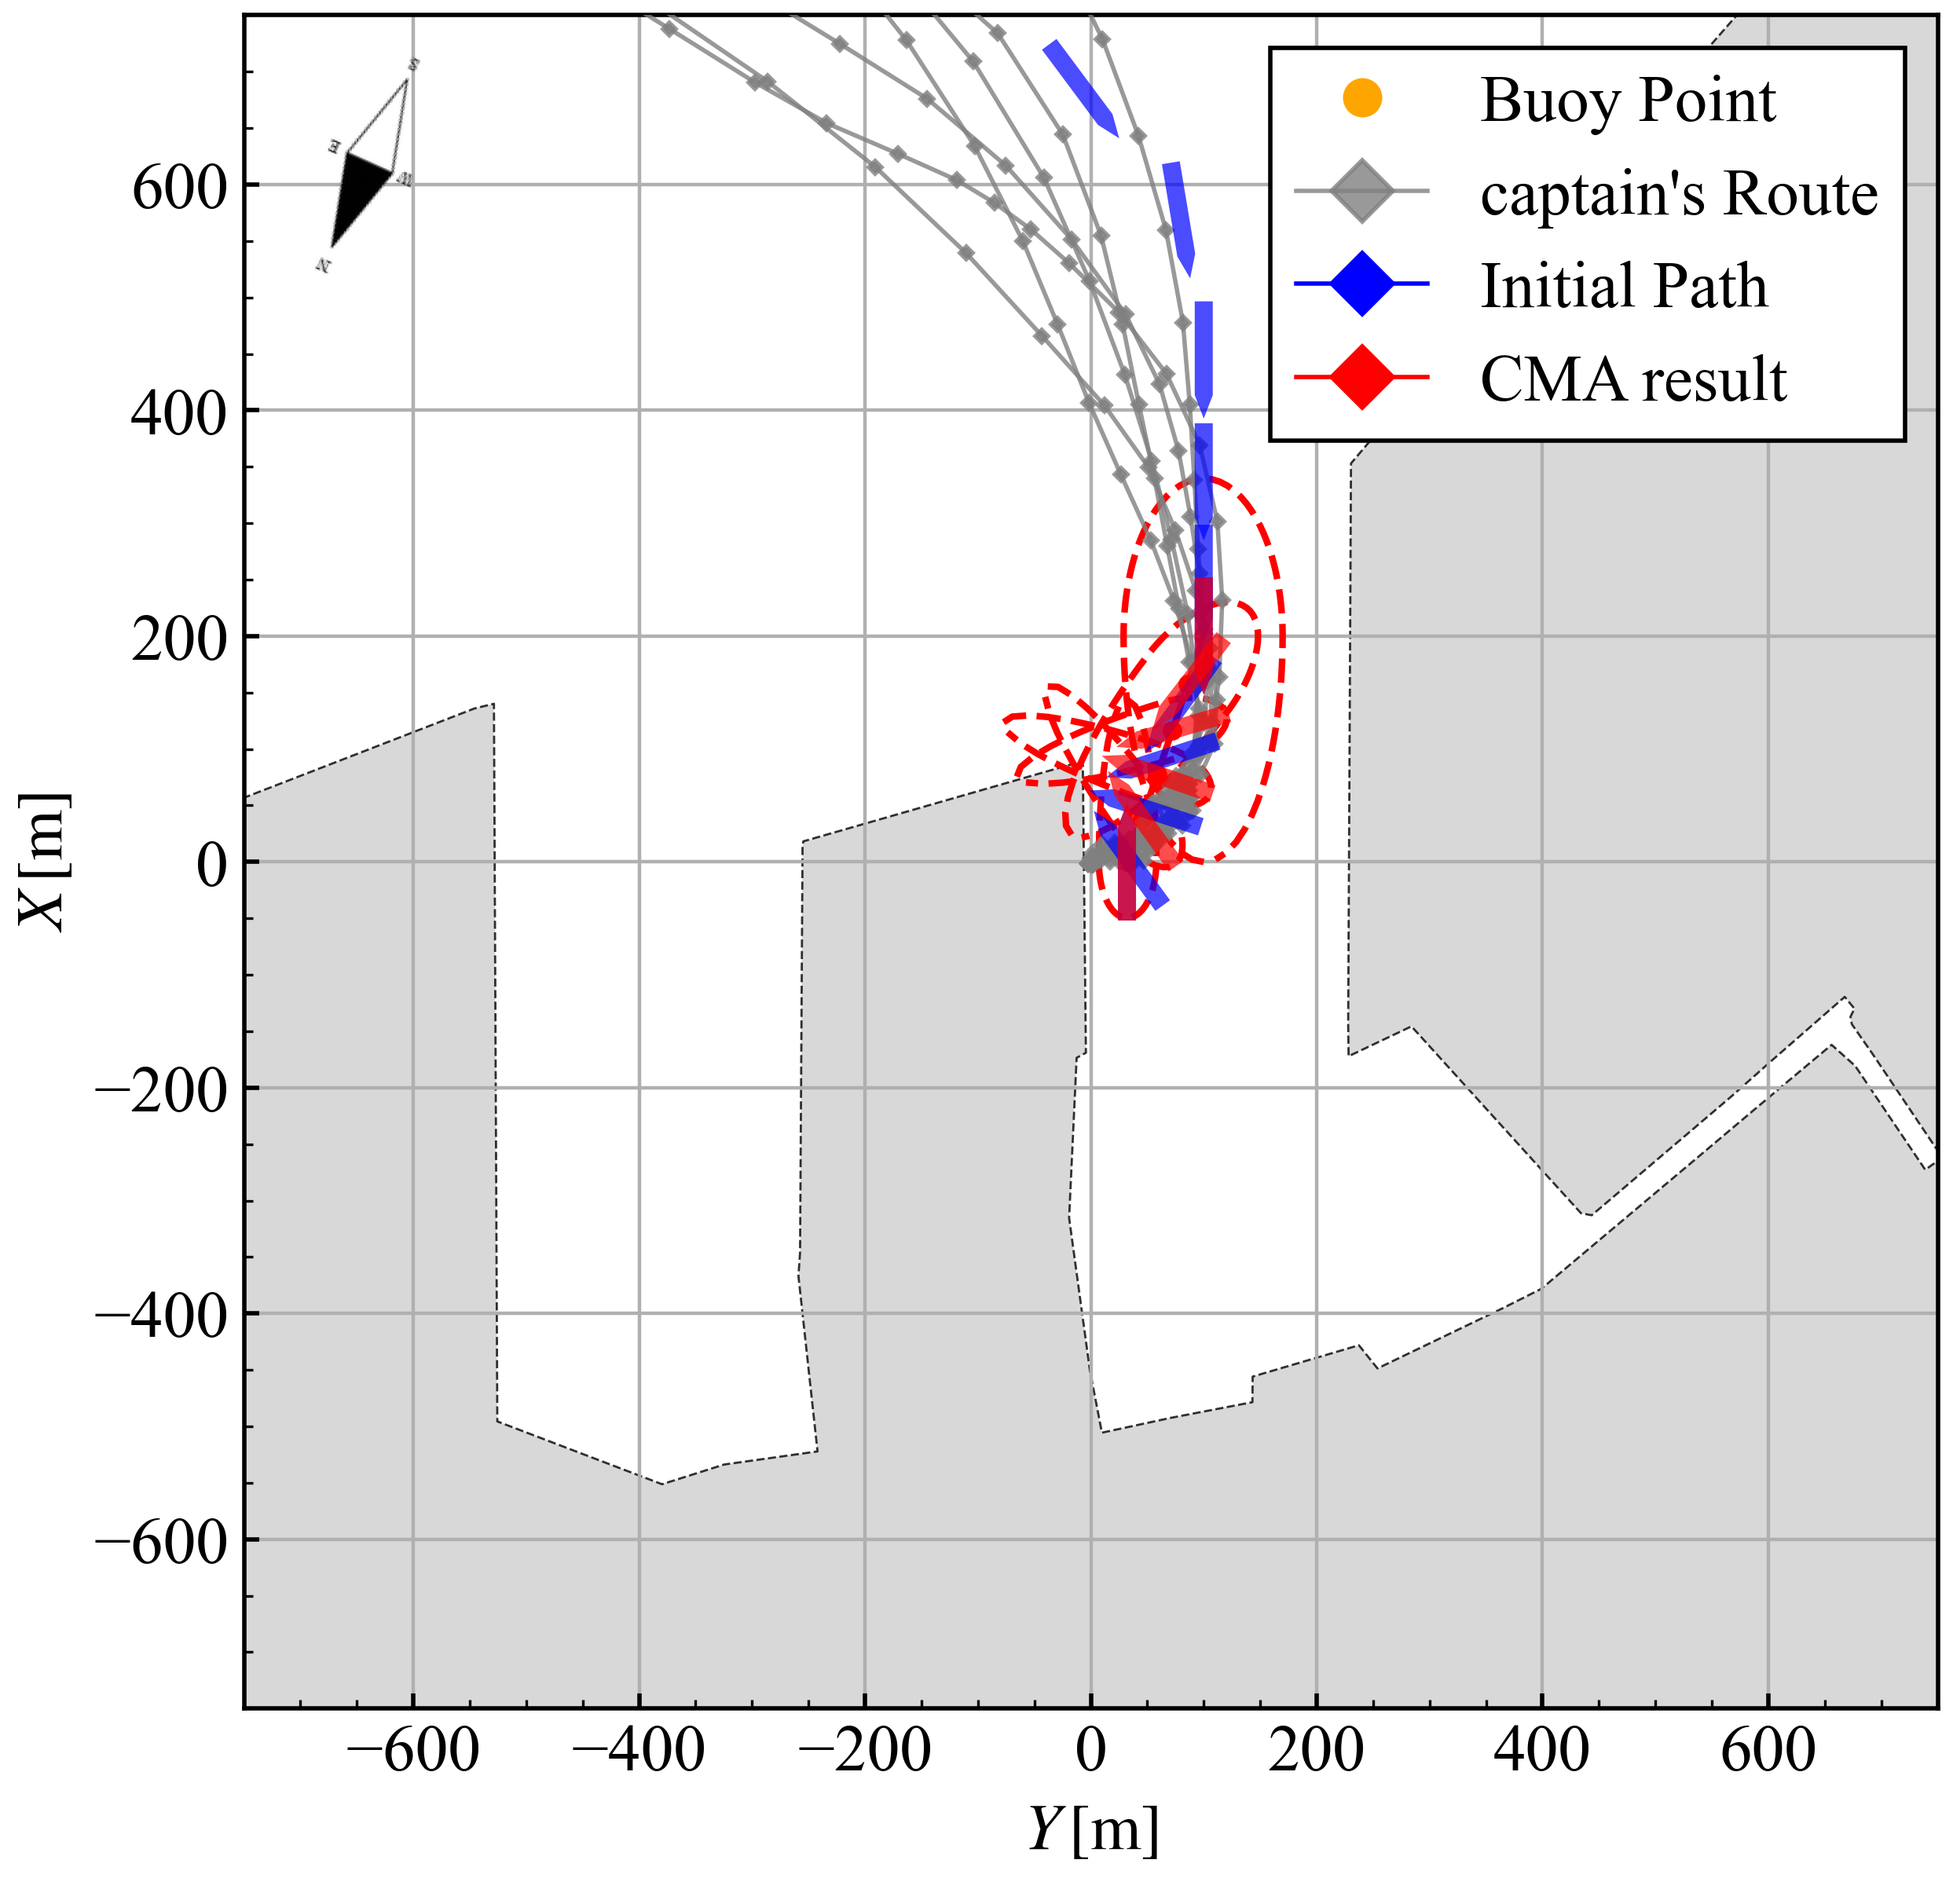
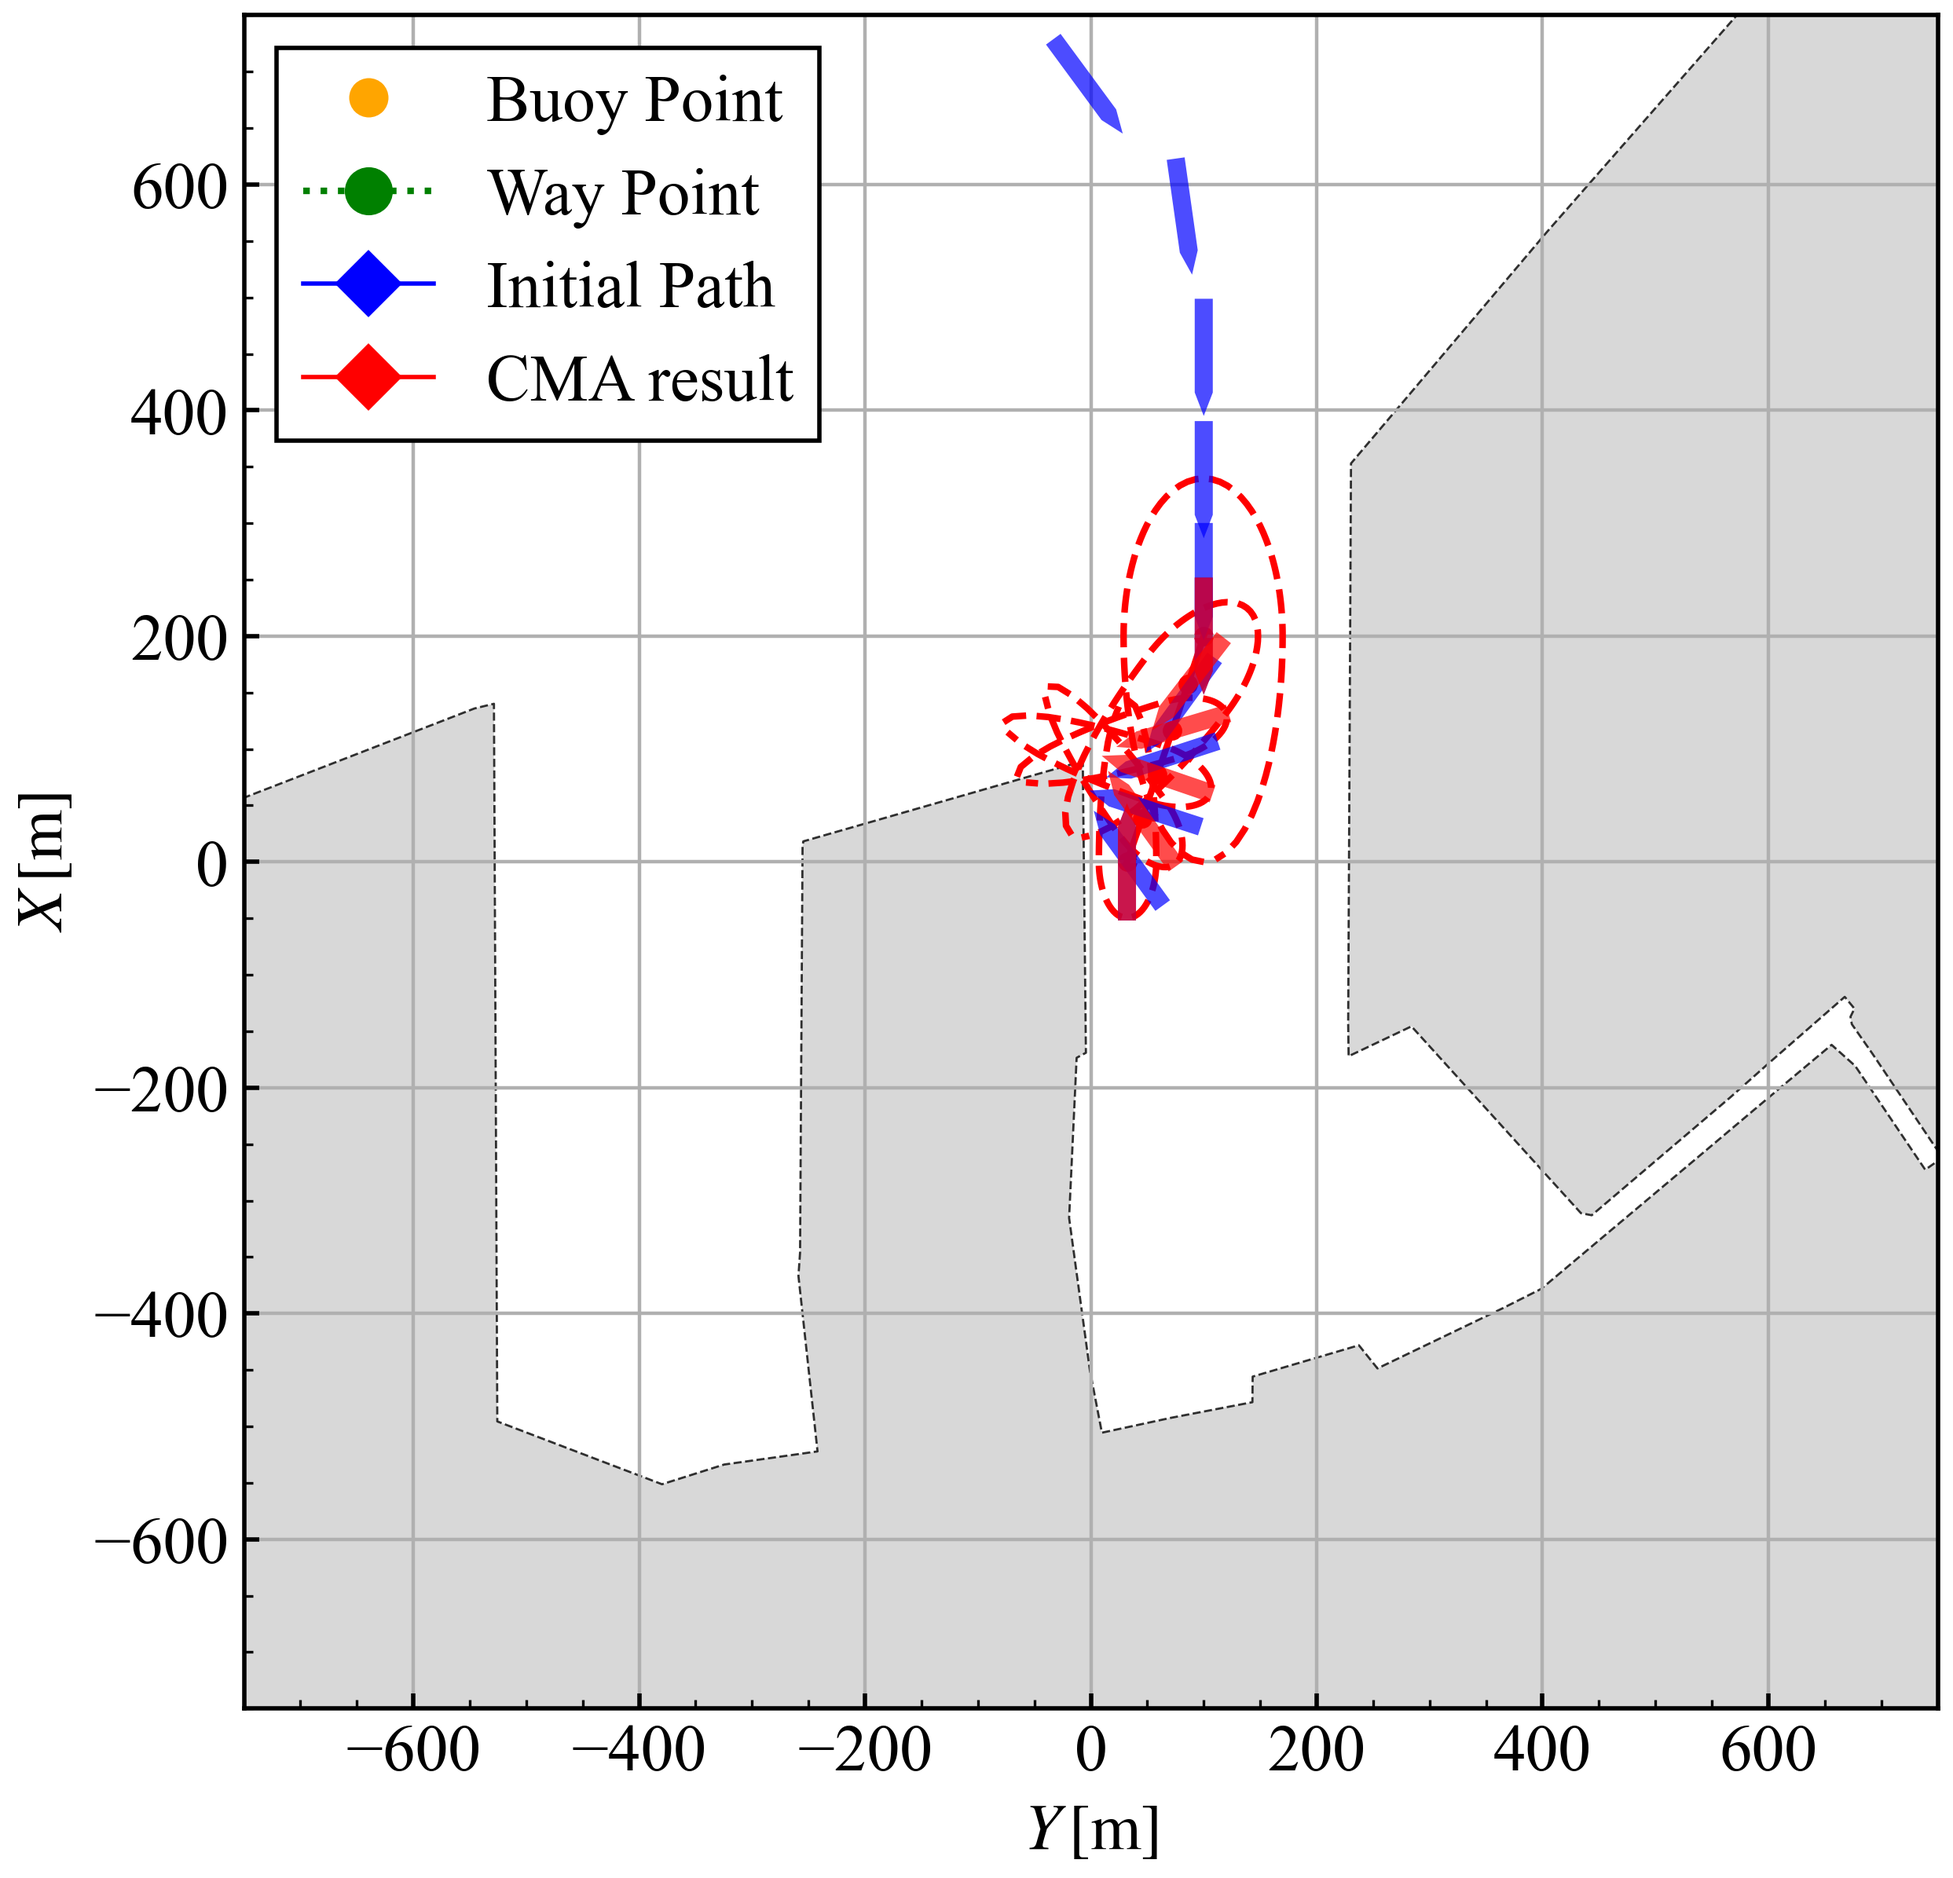
画像追加

Changed region(s): [[0.1239, 0.0, 0.6504, 0.4642], [0.6504, 0.0, 0.9912, 0.2476], [0.6814, 0.0309, 0.7124, 0.0619]]

diff --git a/program/path_planning/CMA-ES3.py b/program/path_planning/CMA-ES3.py
@@ -600,18 +600,6 @@ class MakeLine:
                                     markerfacecolor="orange", markersize=2, label="Buoy Point")
         legends.append(legend_buoy)
 
-        # captain's route
-        for df in self.df_cap:
-            traj = RealTraj()
-            traj.input_csv(df, self.port_csv)
-            ax.plot(traj.Y, traj.X, 
-                        color = 'gray', ls = '-', marker = 'D',
-                        markersize = 2, alpha = 0.8, lw = 1.0, zorder = 3)
-        legend_captain = plt.Line2D([0], [0],
-                                    color = 'gray', ls = '-', marker = 'D',
-                                    markersize = 2, alpha = 0.8, lw = 1.0, label="captain's Route")
-        legends.append(legend_captain)
-
         # compas
         img = mpimg.imread("raw_datas/compass icon2.png")
         df = pd.read_csv(self.port_csv)
@@ -645,7 +633,9 @@ class MakeLine:
 
     def make_init_line(self):
         port = self.port
+        ax = self.ax
         lines = []
+        h_list = []
 
         # for crossing algorithm
         coords_map = self.df_map[["y [m]", "x [m]"]].to_numpy(dtype=float)
@@ -668,9 +658,11 @@ class MakeLine:
         L_berth.swap()
         lines.append(L_berth)
         self.lines = lines
+        self.turn_end = np.array((0.0, margin))
 
         ## save fig
-        self.show_init_lines("init lines step.1")
+        self.add_text(ax, h_list, p_te=True)
+        self.show_init_lines(ax, "init lines step.1")
 
         # from shipping lane
         lane_polys = []
@@ -695,15 +687,21 @@ class MakeLine:
         lines[:] = lines[1:] + lines[:1]
 
         ## save fig
-        self.show_init_lines("init lines step.2")
+        self.show_init_lines(ax, "init lines step.2")
 
         # from start point
         L_start = Line(fixed_pt=port["start"], theta=np.deg2rad(port["psi_start"]))
         lines.insert(0, L_start)
+        self.aproach_start = port["start"]
 
         ## save fig
-        self.show_init_lines("init lines step.3")
+        self.add_text(ax, h_list, p_as=True)
+        self.show_init_lines(ax, "init lines step.3")
         print("\ninit lines saved\n")
+
+        for h in h_list:
+            h.remove()
+
 
     def make_captain_line(self):
         lines = self.lines
@@ -711,6 +709,7 @@ class MakeLine:
         # set parent
         for i in range(len(lines) - 2):
             lines[i+1].set_parent(lines[i])
+        self.show_captain_line("captain's line prepare")
 
         base_idx = len(lines) - 1
         while True:
@@ -754,7 +753,7 @@ class MakeLine:
                     print("too much line")
                     break
             
-        self.show_captain_line()
+        self.show_captain_line("captain's line before", last=True)
 
     def make_init_route(self):
         """
@@ -767,6 +766,7 @@ class MakeLine:
         """
         port = self.port
         pts = self.captain_pts
+        Lpp = self.ps.L
 
         def cal_total_len(pts):
             seg_len = np.linalg.norm(pts[1:] - pts[:-1], axis=1)
@@ -789,7 +789,7 @@ class MakeLine:
         i = np.searchsorted(s_cum, u_split, side="right") - 1
         i = int(np.clip(i, 0, len(seg_len) - 1))
         turn_start_pt = port["turn start"]
-        berth_start_pt = [turn_start_pt[0] + 300, turn_start_pt[1]]
+        berth_start_pt = [turn_start_pt[0] + 3 * Lpp, turn_start_pt[1]]
         pts_for_bezier = np.vstack([pts[1:i+1], berth_start_pt])
 
         bezier_pts, _ = Bezier.bezier(pts_for_bezier, 100)
@@ -845,10 +845,8 @@ class MakeLine:
         self.turn_list = init_list[(len(init_list) - n):]
         self.target_list = self.turn_list[1:-1]
 
-        self.aproach_start = aproach_pts[0]
         self.berth_start = berth_start_pt
         self.turn_start = turn_start_pt
-        self.turn_end = turn_pts[-1]
 
         print(init_list)
         self.show_init_route()
@@ -1040,28 +1038,24 @@ class MakeLine:
         return out if X.ndim == 2 else out[0]
      
     # show map
-    def show_init_lines(self, name):
-        ax = self.ax
+    def show_init_lines(self, ax, name):
         lines = self.lines
 
         handles = []
         for ln in lines:
             pts = np.vstack([ln.fixed_pt, ln.end_pt])
             h, = ax.plot(pts[:, 1], pts[:, 0], color="red", linestyle='-')
-            h_fixed, = ax.plot(ln.fixed_pt[1], ln.fixed_pt[0], marker='o', linestyle='None', color='k')
-            h_end, = ax.plot(ln.end_pt[1], ln.end_pt[0], marker='o', linestyle='None', color='g')
-            handles.extend([h, h_fixed, h_end])
+            handles.append(h)
         plt.savefig(os.path.join(self.SAVE_DIR, f"{name}.png"),
                     dpi=400, bbox_inches="tight", pad_inches=0.05)
         
         for h in handles:
             h.remove()
-        print(f"{name} saved")
 
-    def show_captain_line(self):
+    def show_captain_line(self, name, last=False):
         ax = self.ax
         lines = self.lines
-
+        h_list = []
 
         ln = lines[-1]
         pts_list = [np.asarray(ln.end_pt), np.asarray(ln.fixed_pt)]
@@ -1069,16 +1063,27 @@ class MakeLine:
             ln = ln.parent
             pts_list.append(np.asarray(ln.fixed_pt))
         
-        self.show_init_lines("captain's line before")
+        self.add_text(ax, h_list, p_as=True, p_te=True)
+        self.show_init_lines(ax, name)
 
-        pts = np.vstack(pts_list[::-1])
-        h, =ax.plot(pts[:, 1], pts[:, 0], color="blue", linestyle='-')
-        plt.savefig(os.path.join(self.SAVE_DIR, "captain's line.png"),
-                    dpi=400, bbox_inches="tight", pad_inches=0.05)
-        print("captain's line saved\n")
+        if last:
+            pts = np.vstack(pts_list[::-1])
+            self.way_pts = pts[1:-1]
+            legend_WP = plt.Line2D([0], [0], marker="o", color="g",
+                                        markerfacecolor="green", markersize=2, label="Way Point")
+            self.legends.append(legend_WP)
 
-        h.remove()
-        self.captain_pts = pts
+            h, =ax.plot(pts[:, 1], pts[:, 0], color="blue", linestyle='-')
+            self.add_text(ax, h_list, p_as=True, p_te=True, wp=True)
+            plt.savefig(os.path.join(self.SAVE_DIR, "captain's line.png"),
+                        dpi=400, bbox_inches="tight", pad_inches=0.05)
+            h_list.append(h)
+            print("captain's line saved\n")
+            self.captain_pts = pts
+
+        for h in h_list:
+            h.remove()
+
 
     def show_init_route(self):
         ax = self.ax
@@ -1099,7 +1104,7 @@ class MakeLine:
             ax.add_patch(shipshape)
         
         # text
-        self.add_text(ax, h_list)
+        self.add_text(ax, h_list, all=True)
 
         # setting
         legend_init_path = plt.Line2D([0], [0],
@@ -1122,32 +1127,47 @@ class MakeLine:
             h.remove()
 
 
-    def add_text(self, ax, h_list):
-        x_as, y_as = self.aproach_start
-        p1 = ax.scatter(y_as, x_as, c="black", s=20, zorder=10)
-        t1 = ax.annotate("aproach start", xy=(y_as, x_as),
-                        xytext=(0, 0), textcoords="offset points",
-                        ha="center", va="bottom", fontsize=15, zorder=10)
+    def add_text(self, ax, h_list,
+                 p_as=False, p_bs=False, p_ts=False, p_te=False, wp=False, all=False):
+        if all:
+            p_as=True; p_bs=True; p_ts=True; p_te=True; wp=True
 
-        x_bs, y_bs = self.berth_start
-        p2 = ax.scatter(y_bs, x_bs, c="black", s=20, zorder=10)
-        t2 = ax.annotate("aproach end / berthing start", xy=(y_bs, x_bs),
-                        xytext=(0, 0), textcoords="offset points",
-                        ha="center", va="bottom", fontsize=15, zorder=10)
+        if p_as:
+            x_as, y_as = self.aproach_start
+            p = ax.scatter(y_as, x_as, c="black", s=20, zorder=10)
+            t = ax.annotate("aproach start", xy=(y_as, x_as),
+                            xytext=(0, 0), textcoords="offset points",
+                            ha="center", va="bottom", fontsize=15, zorder=10)
+            h_list.extend([t, p])
 
-        x_ts, y_ts = self.turn_start
-        p3 = ax.scatter(y_ts, x_ts, c="black", s=20, zorder=10)
-        t3 = ax.annotate("turn start", xy=(y_ts, x_ts),
-                        xytext=(+10, 0), textcoords="offset points",
-                        ha="left", va="center", fontsize=15, zorder=10)
+        if p_bs:
+            x_bs, y_bs = self.berth_start
+            p = ax.scatter(y_bs, x_bs, c="black", s=20, zorder=10)
+            t = ax.annotate("aproach end / berthing start", xy=(y_bs, x_bs),
+                            xytext=(0, 0), textcoords="offset points",
+                            ha="center", va="bottom", fontsize=15, zorder=10)
+            h_list.extend([t, p])
 
-        x_te, y_te = self.turn_end
-        p4 = ax.scatter(y_te, x_te, c="black", s=20, zorder=10)
-        t4 = ax.annotate("berthing end", xy=(y_te, x_te),
-                        xytext=(+10, 0), textcoords="offset points",
-                        ha="left", va="center", fontsize=15, zorder=10)
+        if p_ts:
+            x_ts, y_ts = self.turn_start
+            p = ax.scatter(y_ts, x_ts, c="black", s=20, zorder=10)
+            t = ax.annotate("turn start", xy=(y_ts, x_ts),
+                            xytext=(+10, 0), textcoords="offset points",
+                            ha="left", va="center", fontsize=15, zorder=10)
+            h_list.extend([p, t])
 
-        h_list.extend([t1, p1, t2, p2, p3, t3, t4, p4])
+        if p_te:
+            x_te, y_te = self.turn_end
+            p = ax.scatter(y_te, x_te, c="black", s=20, zorder=10)
+            t = ax.annotate("berthing end", xy=(y_te, x_te),
+                            xytext=(+10, 0), textcoords="offset points",
+                            ha="left", va="center", fontsize=15, zorder=10)
+            h_list.extend([t, p])
+
+        if wp:
+            pts = self.way_pts
+            p = ax.scatter(pts[:, 1], pts[:, 0], c="green", s=20, zorder=10)
+            h_list.append(p)
 
     def show_CMA_path(self, best_mean, restart):
         ax = self.ax
@@ -1255,7 +1275,20 @@ class MakeLine:
     def show_best_result(self, best_dict):
         ax = self.ax
         port = self.port
+        legends = self.legends
         h_list = []
+
+        # captain's route
+        for df in self.df_cap:
+            traj = RealTraj()
+            traj.input_csv(df, self.port_csv)
+            ax.plot(traj.Y, traj.X, 
+                        color = 'gray', ls = '-', marker = 'D',
+                        markersize = 2, alpha = 0.8, lw = 1.0, zorder = 3)
+        legend_captain = plt.Line2D([0], [0],
+                                    color = 'gray', ls = '-', marker = 'D',
+                                    markersize = 2, alpha = 0.8, lw = 1.0, label="captain's Route")
+        legends.append(legend_captain)
 
         # best path
         opt_list = best_dict[self.smallest_evaluation_key]["best_mean_sofar"].reshape(-1, 3)
@@ -1277,12 +1310,12 @@ class MakeLine:
             ax.add_patch(shipshape)
 
         # text
-        self.add_text(ax, h_list)
+        self.add_text(ax, h_list, all=True)
         
         ## save
         ax.set_xlim(port["hor_range"])
         ax.set_ylim(port["ver_range"])
-        ax.legend(handles=self.legends)
+        ax.legend(handles=legends)
         plt.savefig(os.path.join(self.SAVE_DIR, f"CMA Result.png"),
                     dpi=400, bbox_inches="tight", pad_inches=0.05)
         
